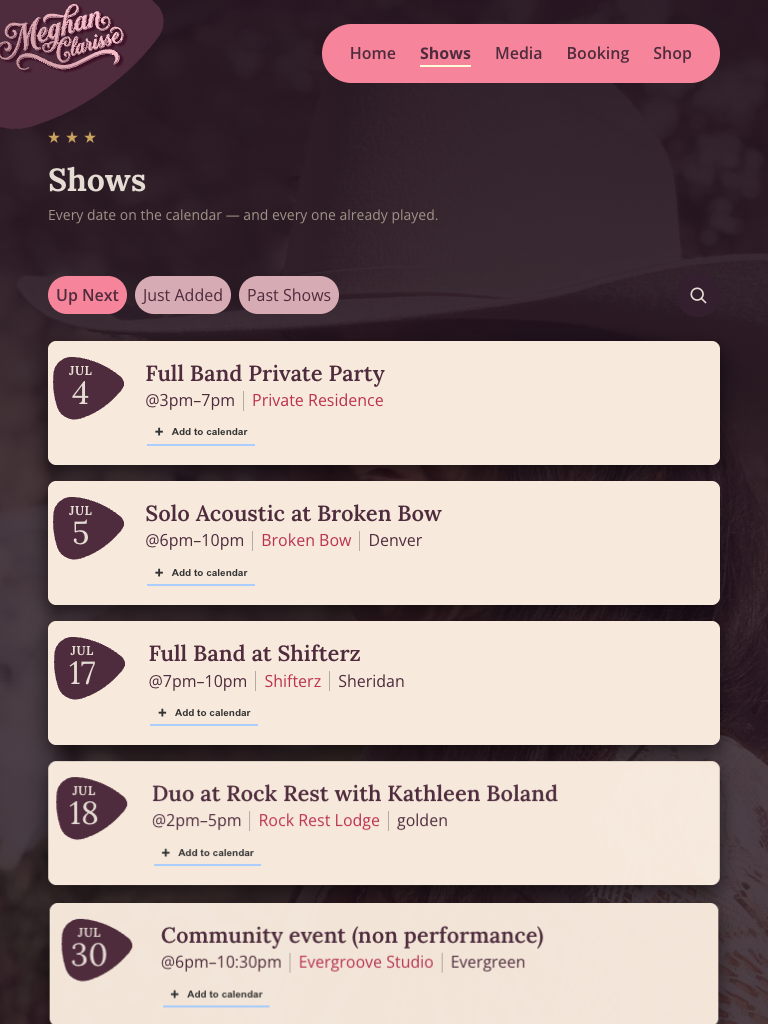
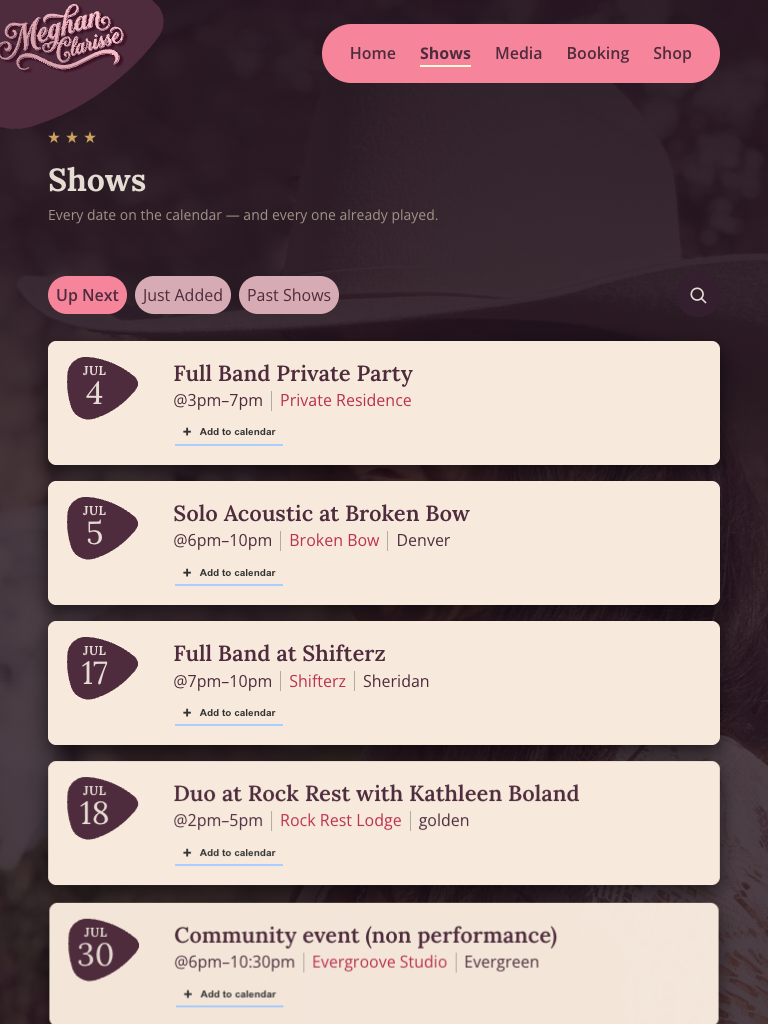
fix(shows): fix the date badge to the pick footprint for a consistent left margin
The badge shrank to fit the text, so 1- vs 2-digit days shifted the centred
pick (and the title), making the left margin inconsistent. Fix the badge
width to the pick's footprint (77.281px) so the pick's left edge always
lands at the card's 16px padding; the pick+text relative position is
unchanged.

diff --git a/src/components/ShowCard/ShowCard.module.css b/src/components/ShowCard/ShowCard.module.css
@@ -40,7 +40,12 @@
   flex-direction: column;
   align-items: center;
   flex-shrink: 0;
-  padding: 3px 13px 0;
+  /* Fixed to the pick's footprint (not shrink-to-text) so the centred pick's
+     left edge always lands at the card's 16px padding — otherwise 1- vs 2-digit
+     days shift the whole group and the left margin reads inconsistent. */
+  box-sizing: border-box;
+  width: 77.281px;
+  padding-top: 3px;
   color: var(--mc-text-primary);
 }
 
